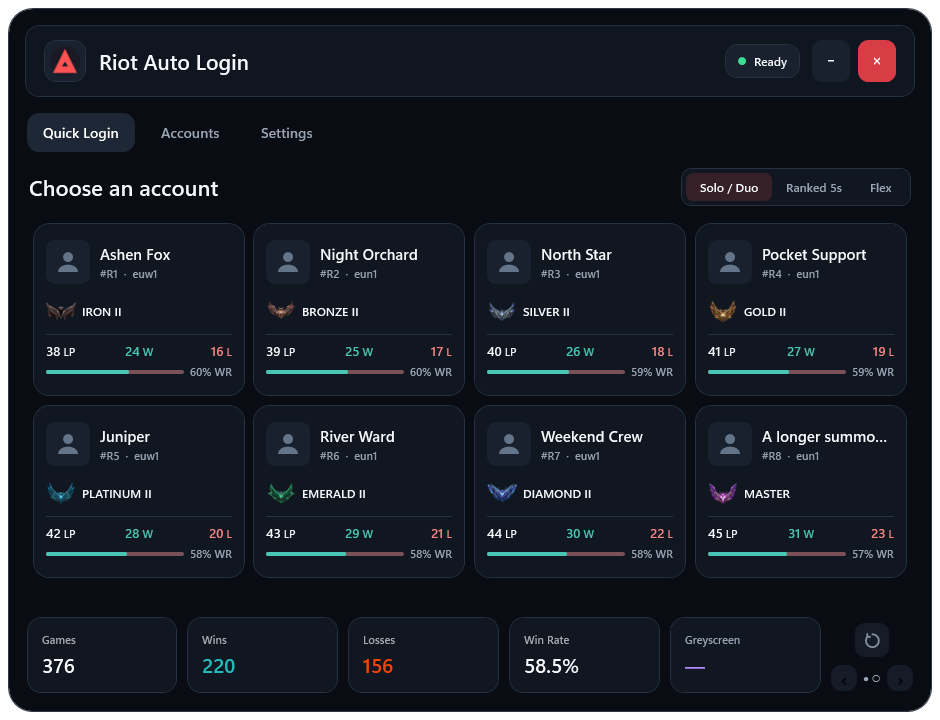
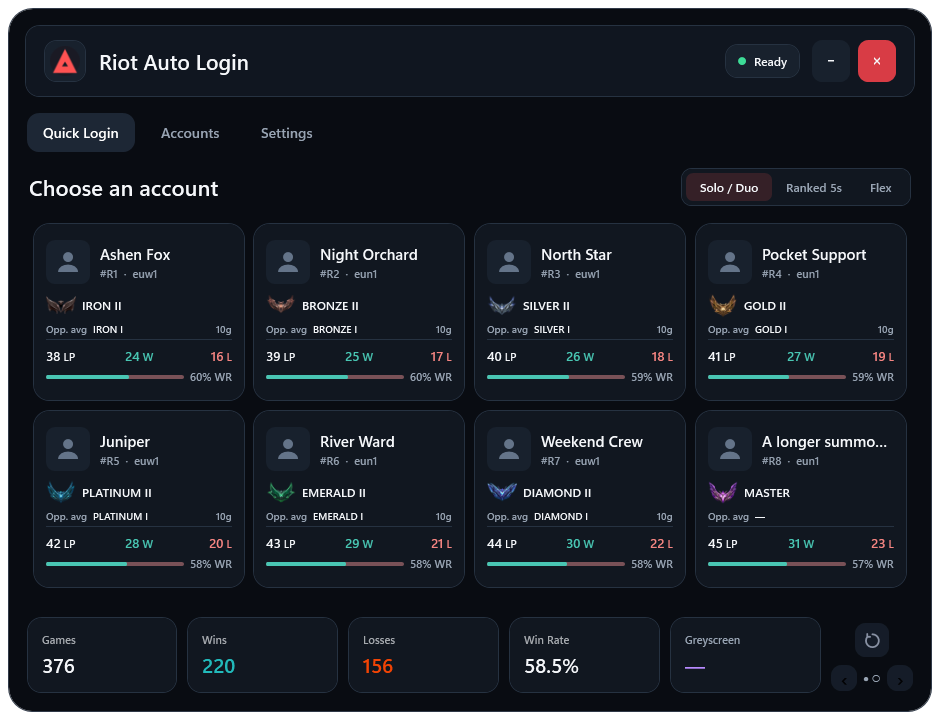
Finish opponent refresh safeguards and update Windows previews

diff --git a/RiotAutoLogin.Tests/OpponentRankChecks.cs b/RiotAutoLogin.Tests/OpponentRankChecks.cs
@@ -32,6 +32,15 @@ internal static class OpponentRankChecks
         calls.Clear();
         await service.ReadAsync("Two Words", "TAG", "euw1", RankedQueue.SoloDuo, default);
         Require(!calls.Any(path => path.StartsWith("lol-ranked/")), "A repeat refresh must reuse the rank cache.");
+        var fullRemake = new LcuOpponentRankService((path, token) =>
+        {
+            if (path != "lol-match-history/v1/games/12") return Read(path, token);
+            var game = Game(12);
+            game["participants"]![6]!["stats"]!["gameEndedInEarlySurrender"] = true;
+            return Reply(game.ToJsonString());
+        });
+        Require((await fullRemake.ReadAsync("Two Words", "TAG", "euw1", RankedQueue.SoloDuo, default))?.Games == 10,
+            "A remake discovered in match details must be replaced by the next eligible game.");
         calls.Clear();
         Require(await service.ReadAsync("Two Words", "TAG", "eun1", RankedQueue.SoloDuo, default) == null &&
                 calls.SequenceEqual(["riotclient/region-locale"]), "A different client region must stop before identity or history requests.");

diff --git a/RiotAutoLogin/Services/LcuOpponentRankService.cs b/RiotAutoLogin/Services/LcuOpponentRankService.cs
@@ -44,10 +44,12 @@ internal sealed class LcuOpponentRankService(Func<string, CancellationToken, Tas
             }
             if (games.ValueKind != JsonValueKind.Array) return null;
 
-            var recent = games.EnumerateArray().Where(game => CompletedInQueue(game, queue))
+            var recent = games.EnumerateArray()
                 .OrderByDescending(game => Number(game, "gameCreation"))
                 .ThenByDescending(game => Number(game, "gameId"))
                 .DistinctBy(game => Number(game, "gameId"))
+                .Take(100)
+                .Where(game => CompletedInQueue(game, queue))
                 .ToArray();
             var result = new OpponentRankSummary();
             double totalPosition = 0;

diff --git a/RiotAutoLogin/MainWindow.xaml.cs b/RiotAutoLogin/MainWindow.xaml.cs
@@ -709,10 +709,10 @@ namespace RiotAutoLogin
         }
         // Account edits, applying completed lookups and saving the cards share the UI dispatcher.
         private Task UpdateAllAccountsAsync(bool onlyStale = false) =>
-            Dispatcher.InvokeAsync<Task>(async () =>
+            Dispatcher.InvokeAsync<Task>(() =>
             {
-                await AccountService.UpdateAllAccountsAsync(_accounts.ToList(), onlyStale);
                 StartOpponentRankRefresh(force: !onlyStale);
+                return AccountService.UpdateAllAccountsAsync(_accounts.ToList(), onlyStale);
             }).Task.Unwrap();
 
         private void UpdateTotalGameStats()
